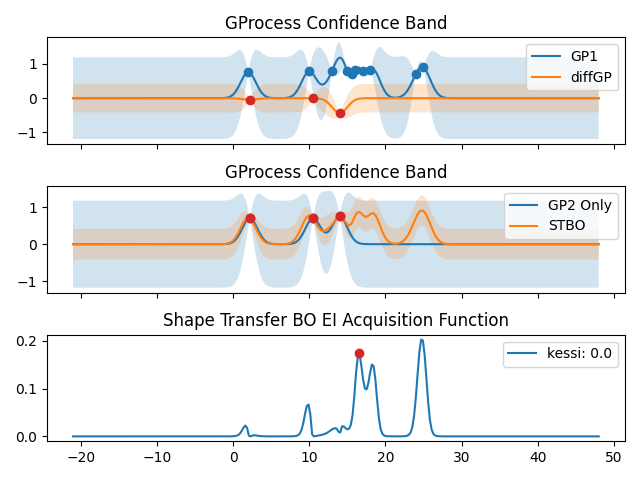
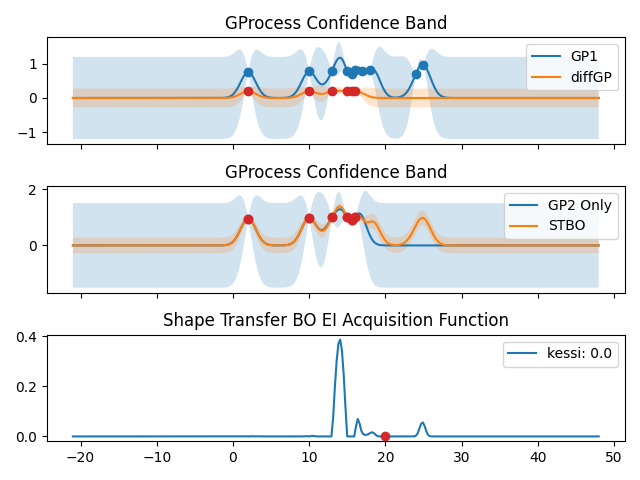
make exp data very similar in exp1 and 2

diff --git a/main.py b/main.py
@@ -16,7 +16,7 @@ if __name__ == "__main__":
     print(EI.X)
     print(EI.Y)
 
-    kessi = 1
+    kessi = 0
     x1 = [12]
     print("EI({:.2f}) = {:.2f}".format(x1[0], EI.aux_func_ei(x1, kessi)))
     x2 = [10.4]
@@ -25,6 +25,7 @@ if __name__ == "__main__":
     start_points = [[12], [1], [13], [11]]
     next_point, next_point_aux = EI.find_best_NextPoint_ei(start_points, learn_rate=0.5, num_step=10)
     EI.plot_ei(kessis=[0.0], num_points=300, highlight_point=[next_point, next_point_aux])
+    print("Next Point: ")
 
     # STBO on Experiments 1 & 2 
     STBO = ShapeTransferBO()
@@ -34,15 +35,15 @@ if __name__ == "__main__":
 
     print(STBO.X)
     print(STBO.Y)
+    
+    x1 = [24]
+    print("STBO EI({:.2f}) = {:.2f}".format(x1[0], STBO.aux_func_ei(x1, kessi)))
+    x2 = [17]
+    print("STBO EI({:.2f}) = {:.2f}".format(x2[0], STBO.aux_func_ei(x2, kessi)))
 
-    print(STBO.zeroGP1.X)
-    print(STBO.zeroGP1.Y)
-
-    print(STBO.diffGP.X)
-    print(STBO.diffGP.Y)
 
     start_points = [[0], [13], [15], [20]]
-    next_point, next_point_aux = STBO.find_best_NextPoint_ei(start_points, learn_rate=0.5, num_step=60)    
+    next_point, next_point_aux = STBO.find_best_NextPoint_ei(start_points, learn_rate=0.5, num_step=500)    
     STBO.plot_ei(kessis=[0.0], num_points=300, highlight_point=[next_point, next_point_aux])
     print(next_point)
 
@@ -61,14 +62,12 @@ if __name__ == "__main__":
     print(BCBO.X)
     print(BCBO.Y)
 
-    print(BCBO.zeroGP1.X)
-    print(BCBO.zeroGP1.Y)
-
-    print(BCBO.diffGP.X)
-    print(BCBO.diffGP.Y)
+    x1 = [24]
+    print("BCBO EI({:.2f}) = {:.2f}".format(x1[0], BCBO.aux_func_ei(x1, kessi)))
+    x2 = [17]
+    print("BCBO EI({:.2f}) = {:.2f}".format(x2[0], BCBO.aux_func_ei(x2, kessi)))
 
     start_points = [[0], [13], [15], [20]]
-    next_point, next_point_aux = BCBO.find_best_NextPoint_ei(start_points, learn_rate=0.5, num_step=60)    
+    next_point, next_point_aux = BCBO.find_best_NextPoint_ei(start_points, learn_rate=0.5, num_step=500)    
     BCBO.plot_ei(kessis=[0.0], num_points=300, highlight_point=[next_point, next_point_aux])
     print(next_point)
-    
